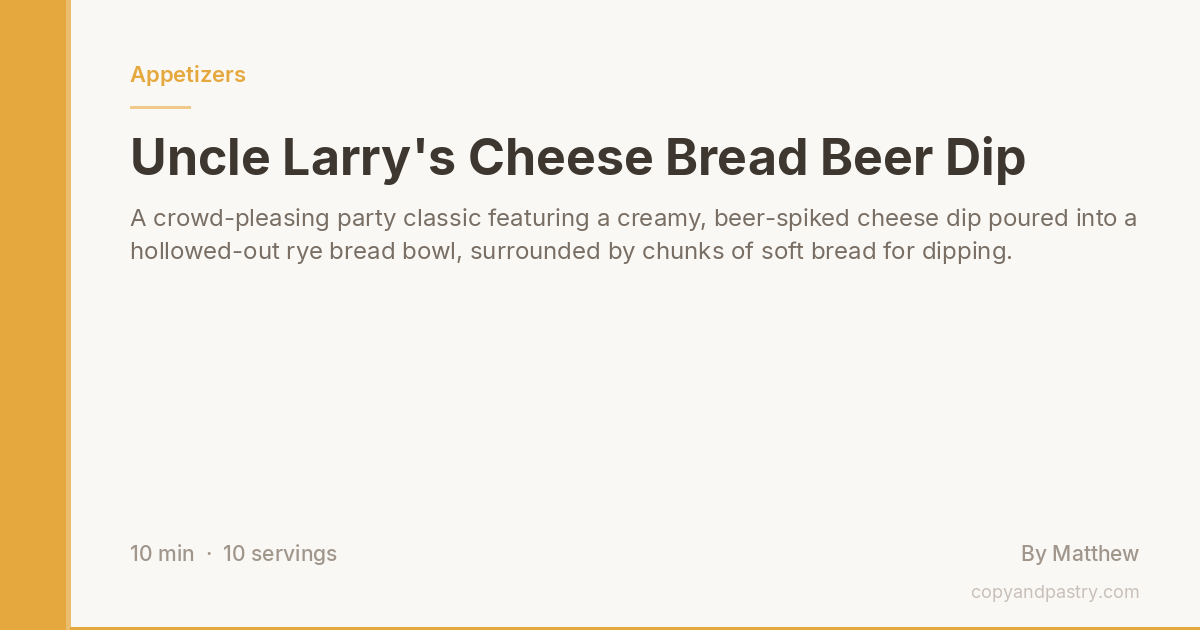
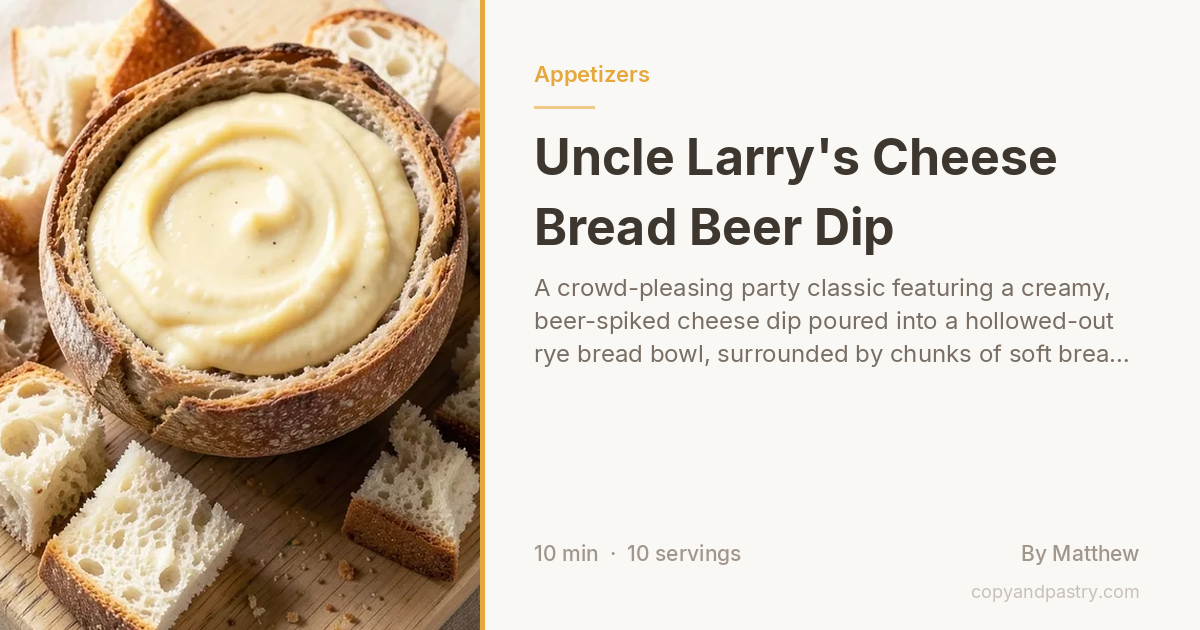
Update generated files [skip ci]

diff --git a/index.html b/index.html
@@ -37,6 +37,7 @@
         <div class="category-section">
             <p class="section-label">🕐 Recently Added</p>
             <a href="appetizers/uncle-larrys-cheese-bread-beer-dip" class="recipe-card">
+                <img class="recipe-card-photo" src="assets/photos/uncle-larrys-cheese-bread-beer-dip/photo.webp" alt="" loading="lazy">
                 <div class="recipe-card-content">
                     <div class="recipe-card-title">Uncle Larry's Cheese Bread Beer Dip</div>
                     <div class="recipe-card-desc">A crowd-pleasing party classic featuring a creamy, beer-spiked cheese dip poured into a hollowed-out rye bread bowl, surrounded by chunks of soft bread for dipping.</div>
@@ -124,6 +125,7 @@
                         <span class="recipe-card-chevron">›</span>
                     </a>
                     <a href="appetizers/uncle-larrys-cheese-bread-beer-dip" class="recipe-card">
+                        <img class="recipe-card-photo" src="assets/photos/uncle-larrys-cheese-bread-beer-dip/photo.webp" alt="" loading="lazy">
                         <div class="recipe-card-content">
                             <div class="recipe-card-title">Uncle Larry's Cheese Bread Beer Dip</div>
                             <div class="recipe-card-desc">A crowd-pleasing party classic featuring a creamy, beer-spiked cheese dip poured into a hollowed-out rye bread bowl, surrounded by chunks of soft bread for dipping.</div>
